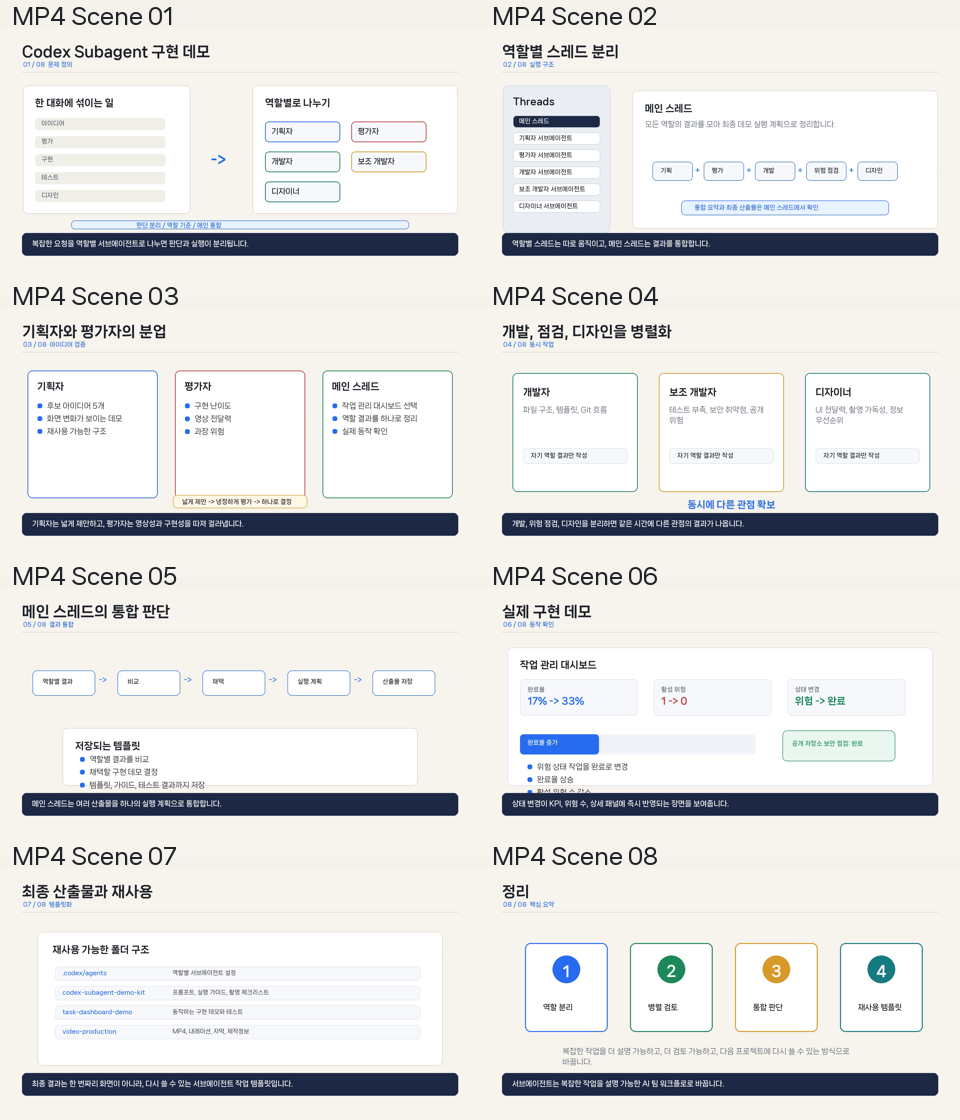
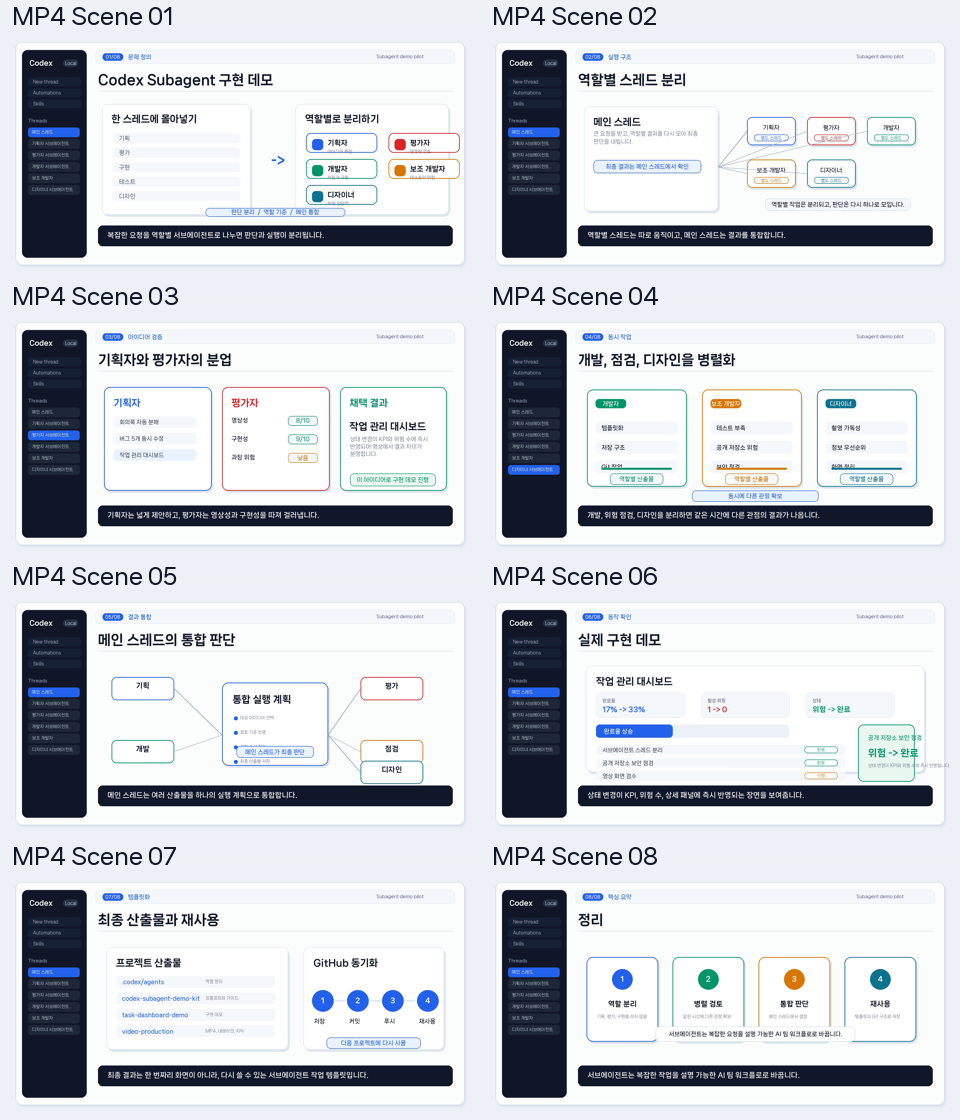
fix: redesign demo video screens

diff --git a/2026-07-08-video-production/2026-07-08-render-video.py b/2026-07-08-video-production/2026-07-08-render-video.py
@@ -459,12 +459,353 @@ VISUALS = {
 }
 
 
+THEME = {
+    "page": "#EEF2F7",
+    "window": "#FDFEFF",
+    "surface": "#FFFFFF",
+    "surface_alt": "#F5F8FC",
+    "sidebar": "#111827",
+    "sidebar_soft": "#1F2937",
+    "ink": "#101828",
+    "muted": "#667085",
+    "subtle": "#98A2B3",
+    "line": "#D9E2EC",
+    "blue": "#2563EB",
+    "blue_soft": "#EAF2FF",
+    "green": "#059669",
+    "green_soft": "#EAF8F1",
+    "amber": "#D97706",
+    "amber_soft": "#FFF7E6",
+    "red": "#DC2626",
+    "red_soft": "#FEF2F2",
+    "teal": "#0E7490",
+    "teal_soft": "#E6F7FA",
+    "purple": "#7C3AED",
+    "purple_soft": "#F3E8FF",
+    "caption": "#0F172A",
+}
+
+FONT_DISPLAY = font("extra_bold", 54)
+FONT_SCENE_TITLE = font("extra_bold", 38)
+FONT_PANEL_TITLE = font("extra_bold", 28)
+FONT_UI = font("bold", 23)
+FONT_UI_REGULAR = font("regular", 22)
+FONT_META = font("bold", 18)
+FONT_TINY = font("regular", 17)
+FONT_CAPTION_NEW = font("bold", 28)
+
+ROLE_COLORS = {
+    "기획자": THEME["blue"],
+    "평가자": THEME["red"],
+    "개발자": THEME["green"],
+    "보조 개발자": THEME["amber"],
+    "디자이너": THEME["teal"],
+}
+
+
+def draw_card(
+    draw: ImageDraw.ImageDraw,
+    box: tuple[int, int, int, int],
+    fill: str = THEME["surface"],
+    outline: str = THEME["line"],
+    width: int = 2,
+    radius: int = 20,
+    shadow: bool = True,
+) -> None:
+    if shadow:
+        sx1, sy1, sx2, sy2 = box
+        draw.rounded_rectangle((sx1 + 6, sy1 + 8, sx2 + 6, sy2 + 8), radius=radius, fill="#DDE5EF")
+    draw.rounded_rectangle(box, radius=radius, fill=fill, outline=outline, width=width)
+
+
+def draw_pill(
+    draw: ImageDraw.ImageDraw,
+    box: tuple[int, int, int, int],
+    text: str,
+    fill: str,
+    text_fill: str,
+    outline: str | None = None,
+    fnt: ImageFont.ImageFont = FONT_META,
+    radius: int = 18,
+) -> None:
+    draw.rounded_rectangle(box, radius=radius, fill=fill, outline=outline, width=2 if outline else 1)
+    tw, th = text_size(draw, text, fnt)
+    x1, y1, x2, y2 = box
+    draw.text((x1 + (x2 - x1 - tw) / 2, y1 + (y2 - y1 - th) / 2 - 1), text, font=fnt, fill=text_fill)
+
+
+def draw_centered(
+    draw: ImageDraw.ImageDraw,
+    box: tuple[int, int, int, int],
+    text: str,
+    fnt: ImageFont.ImageFont,
+    fill: str,
+) -> None:
+    tw, th = text_size(draw, text, fnt)
+    x1, y1, x2, y2 = box
+    draw.text((x1 + (x2 - x1 - tw) / 2, y1 + (y2 - y1 - th) / 2), text, font=fnt, fill=fill)
+
+
+def draw_small_label(draw: ImageDraw.ImageDraw, xy: tuple[int, int], text: str, color: str) -> None:
+    x, y = xy
+    draw.rounded_rectangle((x, y, x + 14, y + 14), radius=5, fill=color)
+    draw.text((x + 24, y - 5), text, font=FONT_TINY, fill=THEME["muted"])
+
+
+def draw_thread_item(draw: ImageDraw.ImageDraw, y: int, label: str, active: bool = False) -> None:
+    fill = THEME["blue"] if active else THEME["sidebar_soft"]
+    text_fill = "#FFFFFF" if active else "#CBD5E1"
+    draw.rounded_rectangle((112, y, 318, y + 38), radius=11, fill=fill)
+    draw.text((128, y + 8), label, font=FONT_TINY, fill=text_fill)
+
+
+def draw_demo_shell(draw: ImageDraw.ImageDraw, scene: Scene, index: int, active_thread: str = "메인 스레드") -> tuple[int, int, int, int]:
+    draw.rectangle((0, 0, WIDTH, HEIGHT), fill=THEME["page"])
+    draw_card(draw, (62, 56, 1858, 948), fill=THEME["window"], outline="#CAD5E2", radius=28, shadow=True)
+    draw.rounded_rectangle((88, 88, 346, 918), radius=22, fill=THEME["sidebar"])
+    draw.text((118, 124), "Codex", font=FONT_PANEL_TITLE, fill="#FFFFFF")
+    draw_pill(draw, (252, 126, 312, 154), "Local", "#263244", "#DDE7F3", fnt=FONT_TINY, radius=12)
+
+    for i, nav in enumerate(["New thread", "Automations", "Skills"]):
+        y = 198 + i * 44
+        draw.rounded_rectangle((112, y, 322, y + 34), radius=10, fill="#182235")
+        draw.text((132, y + 7), nav, font=FONT_TINY, fill="#B9C5D4")
+
+    draw.text((112, 360), "Threads", font=FONT_META, fill="#8EA0B8")
+    thread_labels = [
+        ("메인 스레드", active_thread == "메인 스레드"),
+        ("기획자 서브에이전트", active_thread == "기획자"),
+        ("평가자 서브에이전트", active_thread == "평가자"),
+        ("개발자 서브에이전트", active_thread == "개발자"),
+        ("보조 개발자", active_thread == "보조 개발자"),
+        ("디자이너 서브에이전트", active_thread == "디자이너"),
+    ]
+    for i, (label, active) in enumerate(thread_labels):
+        draw_thread_item(draw, 398 + i * 46, label, active)
+
+    draw.rounded_rectangle((382, 88, 1818, 142), radius=16, fill=THEME["surface_alt"], outline=THEME["line"])
+    draw_pill(draw, (410, 101, 492, 130), f"{index:02d}/08", THEME["blue"], "#FFFFFF", fnt=FONT_META, radius=13)
+    draw.text((512, 103), scene.label, font=FONT_UI, fill=THEME["blue"])
+    draw.text((1506, 103), "Subagent demo pilot", font=FONT_META, fill=THEME["muted"])
+
+    draw.text((392, 178), scene.title, font=FONT_DISPLAY, fill=THEME["ink"])
+    draw.line((392, 252, 1810, 252), fill=THEME["line"], width=2)
+
+    draw.rounded_rectangle((392, 790, 1810, 872), radius=18, fill=THEME["caption"])
+    draw_wrapped(draw, (430, 813), scene.caption, FONT_CAPTION_NEW, "#FFFFFF", 1338, line_gap=8)
+    return (392, 286, 1810, 754)
+
+
+def draw_role_badge(draw: ImageDraw.ImageDraw, box: tuple[int, int, int, int], role: str, subtitle: str) -> None:
+    color = ROLE_COLORS.get(role, THEME["blue"])
+    draw_card(draw, box, fill=THEME["surface"], outline=color, width=3, radius=20, shadow=False)
+    x1, y1, x2, _ = box
+    draw.rounded_rectangle((x1 + 24, y1 + 24, x1 + 68, y1 + 68), radius=14, fill=color)
+    draw.text((x1 + 86, y1 + 24), role, font=FONT_PANEL_TITLE, fill=THEME["ink"])
+    draw_wrapped(draw, (x1 + 86, y1 + 64), subtitle, FONT_TINY, THEME["muted"], x2 - x1 - 112, line_gap=5)
+
+
+def scene_problem(draw: ImageDraw.ImageDraw, scene: Scene, index: int) -> None:
+    x1, y1, x2, y2 = draw_demo_shell(draw, scene, index)
+    left = (x1 + 16, y1 + 18, x1 + 610, y2 - 8)
+    right = (x1 + 790, y1 + 18, x2 - 16, y2 - 8)
+    draw_card(draw, left, fill=THEME["surface"], outline=THEME["line"], radius=24)
+    draw_card(draw, right, fill=THEME["surface"], outline=THEME["line"], radius=24)
+    draw.text((left[0] + 38, left[1] + 38), "한 스레드에 몰아넣기", font=FONT_SCENE_TITLE, fill=THEME["ink"])
+    for i, item in enumerate(["기획", "평가", "구현", "테스트", "디자인"]):
+        y = left[1] + 116 + i * 58
+        draw.rounded_rectangle((left[0] + 42, y, left[2] - 42, y + 40), radius=12, fill=THEME["surface_alt"])
+        draw.text((left[0] + 68, y + 8), item, font=FONT_UI, fill=THEME["muted"])
+    draw.text((x1 + 692, y1 + 214), "->", font=FONT_DISPLAY, fill=THEME["blue"])
+    draw.text((right[0] + 38, right[1] + 38), "역할별로 분리하기", font=FONT_SCENE_TITLE, fill=THEME["ink"])
+    roles = [
+        ("기획자", "아이디어 확장"),
+        ("평가자", "냉정한 검토"),
+        ("개발자", "파일과 구현"),
+        ("보조 개발자", "테스트와 위험"),
+        ("디자이너", "화면 전달력"),
+    ]
+    for i, (role, subtitle) in enumerate(roles):
+        bx = right[0] + 42 + (i % 2) * 330
+        by = right[1] + 116 + (i // 2) * 104
+        draw_role_badge(draw, (bx, by, bx + 284, by + 78), role, subtitle)
+    draw_pill(draw, (x1 + 430, y2 - 34, x2 - 430, y2), "판단 분리  /  역할 기준  /  메인 통합", THEME["blue_soft"], THEME["blue"], outline=THEME["blue"], fnt=FONT_UI, radius=16)
+
+
+def scene_threads(draw: ImageDraw.ImageDraw, scene: Scene, index: int) -> None:
+    x1, y1, x2, y2 = draw_demo_shell(draw, scene, index, active_thread="메인 스레드")
+    draw_card(draw, (x1 + 24, y1 + 28, x1 + 560, y2 - 22), fill=THEME["surface"], outline=THEME["line"], radius=24)
+    draw.text((x1 + 62, y1 + 68), "메인 스레드", font=FONT_SCENE_TITLE, fill=THEME["ink"])
+    draw_wrapped(draw, (x1 + 62, y1 + 124), "큰 요청을 받고, 역할별 결과를 다시 모아 최종 판단을 내립니다.", FONT_UI_REGULAR, THEME["muted"], 430, line_gap=8)
+    draw_pill(draw, (x1 + 62, y1 + 242, x1 + 492, y1 + 294), "최종 결과는 메인 스레드에서 확인", THEME["blue_soft"], THEME["blue"], outline=THEME["blue"], fnt=FONT_UI, radius=16)
+
+    roles = ["기획자", "평가자", "개발자", "보조 개발자", "디자이너"]
+    for i, role in enumerate(roles):
+        bx = x1 + 676 + (i % 3) * 240
+        by = y1 + 70 + (i // 3) * 170
+        color = ROLE_COLORS[role]
+        draw_card(draw, (bx, by, bx + 194, by + 112), fill=THEME["surface"], outline=color, width=3, radius=20)
+        draw_centered(draw, (bx, by + 24, bx + 194, by + 58), role, FONT_UI, THEME["ink"])
+        draw_pill(draw, (bx + 28, by + 70, bx + 166, by + 96), "별도 스레드", "#F8FAFC", color, outline=color, fnt=FONT_TINY, radius=12)
+        draw.line((x1 + 560, y1 + 270, bx, by + 56), fill="#A7B5C8", width=3)
+    draw_pill(draw, (x1 + 748, y2 - 72, x2 - 88, y2 - 24), "역할별 작업은 분리되고, 판단은 다시 하나로 모입니다.", THEME["surface_alt"], THEME["ink"], outline=THEME["line"], fnt=FONT_UI, radius=16)
+
+
+def scene_planner_evaluator(draw: ImageDraw.ImageDraw, scene: Scene, index: int) -> None:
+    x1, y1, x2, y2 = draw_demo_shell(draw, scene, index, active_thread="평가자")
+    panel_w = 430
+    draw_card(draw, (x1 + 24, y1 + 30, x1 + 24 + panel_w, y2 - 24), fill=THEME["surface"], outline=THEME["blue"], width=3, radius=24)
+    draw_card(draw, (x1 + 496, y1 + 30, x1 + 496 + panel_w, y2 - 24), fill=THEME["surface"], outline=THEME["red"], width=3, radius=24)
+    draw_card(draw, (x1 + 968, y1 + 30, x2 - 24, y2 - 24), fill=THEME["surface"], outline=THEME["green"], width=3, radius=24)
+    draw.text((x1 + 62, y1 + 72), "기획자", font=FONT_SCENE_TITLE, fill=THEME["blue"])
+    draw.text((x1 + 534, y1 + 72), "평가자", font=FONT_SCENE_TITLE, fill=THEME["red"])
+    draw.text((x1 + 1006, y1 + 72), "채택 결과", font=FONT_SCENE_TITLE, fill=THEME["green"])
+    for i, item in enumerate(["회의록 자동 분해", "버그 5개 동시 수정", "작업 관리 대시보드"]):
+        y = y1 + 148 + i * 66
+        fill = THEME["blue_soft"] if i == 2 else THEME["surface_alt"]
+        draw.rounded_rectangle((x1 + 62, y, x1 + 392, y + 44), radius=13, fill=fill)
+        draw.text((x1 + 86, y + 10), item, font=FONT_UI_REGULAR, fill=THEME["ink"])
+    for i, (label, value, color) in enumerate([("영상성", "8/10", THEME["green"]), ("구현성", "9/10", THEME["green"]), ("과장 위험", "낮음", THEME["amber"])]):
+        y = y1 + 150 + i * 74
+        draw.text((x1 + 534, y), label, font=FONT_UI, fill=THEME["ink"])
+        draw_pill(draw, (x1 + 760, y - 4, x1 + 878, y + 34), value, THEME["surface_alt"], color, outline=color, fnt=FONT_UI, radius=14)
+    draw.text((x1 + 1006, y1 + 166), "작업 관리 대시보드", font=FONT_SCENE_TITLE, fill=THEME["ink"])
+    draw_wrapped(draw, (x1 + 1008, y1 + 226), "상태 변경이 KPI와 위험 수에 즉시 반영되어 영상에서 결과 차이가 분명합니다.", FONT_UI_REGULAR, THEME["muted"], 340, line_gap=8)
+    draw_pill(draw, (x1 + 1008, y2 - 92, x2 - 68, y2 - 42), "이 아이디어로 구현 데모 진행", THEME["green_soft"], THEME["green"], outline=THEME["green"], fnt=FONT_UI, radius=16)
+
+
+def scene_parallel(draw: ImageDraw.ImageDraw, scene: Scene, index: int) -> None:
+    x1, y1, x2, y2 = draw_demo_shell(draw, scene, index, active_thread="디자이너")
+    lanes = [
+        ("개발자", "템플릿화\n저장 구조\nGit 작업"),
+        ("보조 개발자", "테스트 부족\n공개 저장소 위험\n보안 점검"),
+        ("디자이너", "촬영 가독성\n정보 우선순위\n화면 정리"),
+    ]
+    for i, (role, body) in enumerate(lanes):
+        lx = x1 + 36 + i * 460
+        color = ROLE_COLORS[role]
+        draw_card(draw, (lx, y1 + 40, lx + 398, y2 - 40), fill=THEME["surface"], outline=color, width=3, radius=24)
+        draw_pill(draw, (lx + 34, y1 + 78, lx + 156, y1 + 114), role, color, "#FFFFFF", fnt=FONT_UI, radius=14)
+        for j, line in enumerate(body.splitlines()):
+            y = y1 + 168 + j * 78
+            draw.rounded_rectangle((lx + 34, y, lx + 362, y + 50), radius=14, fill=THEME["surface_alt"])
+            draw.text((lx + 58, y + 13), line, font=FONT_UI, fill=THEME["ink"])
+        draw.line((lx + 58, y2 - 112, lx + 338, y2 - 112), fill=color, width=8)
+        draw_pill(draw, (lx + 92, y2 - 92, lx + 304, y2 - 48), "역할별 산출물", "#F8FAFC", color, outline=color, fnt=FONT_UI, radius=15)
+    draw_pill(draw, (x1 + 456, y2 - 24, x2 - 456, y2 + 20), "동시에 다른 관점 확보", THEME["blue_soft"], THEME["blue"], outline=THEME["blue"], fnt=FONT_UI, radius=16)
+
+
+def scene_integration(draw: ImageDraw.ImageDraw, scene: Scene, index: int) -> None:
+    x1, y1, x2, y2 = draw_demo_shell(draw, scene, index, active_thread="메인 스레드")
+    center = (x1 + 496, y1 + 92, x1 + 920, y2 - 44)
+    draw_card(draw, center, fill=THEME["surface"], outline=THEME["blue"], width=3, radius=26)
+    draw.text((center[0] + 42, center[1] + 46), "통합 실행 계획", font=FONT_SCENE_TITLE, fill=THEME["ink"])
+    for i, line in enumerate(["데모 아이디어 선택", "검토 기준 반영", "구현 순서 정리", "최종 산출물 저장"]):
+        y = center[1] + 128 + i * 58
+        draw_small_label(draw, (center[0] + 48, y + 8), line, THEME["blue"])
+    sources = [
+        ("기획", x1 + 54, y1 + 70, THEME["blue"]),
+        ("평가", x1 + 1050, y1 + 70, THEME["red"]),
+        ("개발", x1 + 54, y1 + 322, THEME["green"]),
+        ("점검", x1 + 1050, y1 + 322, THEME["amber"]),
+        ("디자인", x1 + 1050, y1 + 405, THEME["teal"]),
+    ]
+    for label, sx, sy, color in sources:
+        draw_card(draw, (sx, sy, sx + 250, sy + 92), fill=THEME["surface"], outline=color, width=3, radius=20, shadow=False)
+        draw_centered(draw, (sx, sy + 18, sx + 250, sy + 50), label, FONT_PANEL_TITLE, THEME["ink"])
+        draw.line((sx + 250 if sx < center[0] else sx, sy + 46, center[0] if sx < center[0] else center[2], center[1] + 210), fill="#A9B7CB", width=3)
+    draw_pill(draw, (center[0] + 58, center[3] - 78, center[2] - 58, center[3] - 32), "메인 스레드가 최종 판단", THEME["blue_soft"], THEME["blue"], outline=THEME["blue"], fnt=FONT_UI, radius=15)
+
+
+def scene_dashboard(draw: ImageDraw.ImageDraw, scene: Scene, index: int) -> None:
+    x1, y1, x2, y2 = draw_demo_shell(draw, scene, index)
+    draw_card(draw, (x1 + 32, y1 + 24, x2 - 32, y2 - 18), fill=THEME["surface"], outline=THEME["line"], radius=26)
+    draw.text((x1 + 72, y1 + 66), "작업 관리 대시보드", font=FONT_SCENE_TITLE, fill=THEME["ink"])
+    kpis = [("완료율", "17% -> 33%", THEME["blue"]), ("활성 위험", "1 -> 0", THEME["red"]), ("상태", "위험 -> 완료", THEME["green"])]
+    for i, (label, value, color) in enumerate(kpis):
+        bx = x1 + 72 + i * 420
+        draw.rounded_rectangle((bx, y1 + 132, bx + 354, y1 + 232), radius=18, fill=THEME["surface_alt"], outline=THEME["line"])
+        draw.text((bx + 26, y1 + 154), label, font=FONT_META, fill=THEME["muted"])
+        draw.text((bx + 26, y1 + 184), value, font=FONT_PANEL_TITLE, fill=color)
+    draw.rounded_rectangle((x1 + 72, y1 + 260, x1 + 844, y1 + 312), radius=14, fill="#EDF2F8")
+    draw.rounded_rectangle((x1 + 72, y1 + 260, x1 + 378, y1 + 312), radius=14, fill=THEME["blue"])
+    draw.text((x1 + 104, y1 + 274), "완료율 상승", font=FONT_UI, fill="#FFFFFF")
+    rows = [("서브에이전트 스레드 분리", "완료"), ("공개 저장소 보안 점검", "완료"), ("영상 화면 검수", "진행")]
+    for i, (task, status) in enumerate(rows):
+        y = y1 + 342 + i * 52
+        draw.rounded_rectangle((x1 + 72, y, x1 + 1068, y + 38), radius=12, fill=THEME["surface_alt"])
+        draw.text((x1 + 98, y + 8), task, font=FONT_UI_REGULAR, fill=THEME["ink"])
+        color = THEME["green"] if status == "완료" else THEME["amber"]
+        draw_pill(draw, (x1 + 906, y + 6, x1 + 1038, y + 32), status, "#FFFFFF", color, outline=color, fnt=FONT_TINY, radius=12)
+    draw_card(draw, (x1 + 1120, y1 + 260, x2 - 72, y1 + 488), fill=THEME["green_soft"], outline=THEME["green"], width=3, radius=22, shadow=False)
+    draw.text((x1 + 1160, y1 + 300), "공개 저장소 보안 점검", font=FONT_UI, fill=THEME["green"])
+    draw.text((x1 + 1160, y1 + 352), "위험 -> 완료", font=FONT_SCENE_TITLE, fill=THEME["green"])
+    draw_wrapped(draw, (x1 + 1160, y1 + 414), "상태 변경이 KPI와 위험 수에 즉시 반영됩니다.", FONT_TINY, THEME["muted"], 340, line_gap=5)
+
+
+def scene_outputs(draw: ImageDraw.ImageDraw, scene: Scene, index: int) -> None:
+    x1, y1, x2, y2 = draw_demo_shell(draw, scene, index)
+    draw_card(draw, (x1 + 34, y1 + 30, x1 + 760, y2 - 28), fill=THEME["surface"], outline=THEME["line"], radius=24)
+    draw.text((x1 + 72, y1 + 72), "프로젝트 산출물", font=FONT_SCENE_TITLE, fill=THEME["ink"])
+    files = [
+        (".codex/agents", "역할 정의"),
+        ("codex-subagent-demo-kit", "프롬프트와 가이드"),
+        ("task-dashboard-demo", "구현 데모"),
+        ("video-production", "MP4, 내레이션, 자막"),
+    ]
+    for i, (name, desc) in enumerate(files):
+        y = y1 + 146 + i * 66
+        draw.rounded_rectangle((x1 + 72, y, x1 + 708, y + 46), radius=12, fill=THEME["surface_alt"])
+        draw.text((x1 + 96, y + 11), name, font=FONT_UI, fill=THEME["blue"])
+        draw.text((x1 + 430, y + 12), desc, font=FONT_TINY, fill=THEME["muted"])
+    draw_card(draw, (x1 + 822, y1 + 30, x2 - 34, y2 - 28), fill=THEME["surface"], outline=THEME["line"], radius=24)
+    draw.text((x1 + 862, y1 + 72), "GitHub 동기화", font=FONT_SCENE_TITLE, fill=THEME["ink"])
+    steps = ["저장", "커밋", "푸시", "재사용"]
+    for i, step in enumerate(steps):
+        cx = x1 + 856 + i * 140
+        cy = y1 + 202
+        draw.ellipse((cx, cy, cx + 86, cy + 86), fill=THEME["blue"], outline=THEME["blue"])
+        draw_centered(draw, (cx, cy + 22, cx + 86, cy + 54), str(i + 1), FONT_PANEL_TITLE, "#FFFFFF")
+        draw.text((cx + 8, cy + 112), step, font=FONT_UI, fill=THEME["ink"])
+        if i < 3:
+            draw.line((cx + 92, cy + 43, cx + 132, cy + 43), fill=THEME["line"], width=5)
+    draw_pill(draw, (x1 + 914, y2 - 76, x2 - 128, y2 - 32), "다음 프로젝트에 다시 사용", THEME["blue_soft"], THEME["blue"], outline=THEME["blue"], fnt=FONT_UI, radius=16)
+
+
+def scene_summary(draw: ImageDraw.ImageDraw, scene: Scene, index: int) -> None:
+    x1, y1, x2, y2 = draw_demo_shell(draw, scene, index)
+    pillars = [
+        ("역할 분리", "기획, 평가, 구현을 섞지 않음", THEME["blue"]),
+        ("병렬 검토", "같은 시간에 다른 관점 확보", THEME["green"]),
+        ("통합 판단", "메인 스레드에서 결정", THEME["amber"]),
+        ("재사용", "템플릿과 Git 구조로 저장", THEME["teal"]),
+    ]
+    for i, (title, desc, color) in enumerate(pillars):
+        bx = x1 + 34 + i * 344
+        draw_card(draw, (bx, y1 + 70, bx + 286, y1 + 408), fill=THEME["surface"], outline=color, width=3, radius=26)
+        draw.ellipse((bx + 102, y1 + 118, bx + 184, y1 + 200), fill=color)
+        draw_centered(draw, (bx + 102, y1 + 140, bx + 184, y1 + 168), str(i + 1), FONT_PANEL_TITLE, "#FFFFFF")
+        draw_centered(draw, (bx + 30, y1 + 240, bx + 256, y1 + 272), title, FONT_PANEL_TITLE, THEME["ink"])
+        draw_wrapped(draw, (bx + 42, y1 + 298), desc, FONT_TINY, THEME["muted"], 210, line_gap=5)
+    draw_pill(draw, (x1 + 310, y2 - 120, x2 - 310, y2 - 60), "서브에이전트는 복잡한 요청을 설명 가능한 AI 팀 워크플로로 바꿉니다.", THEME["surface"], THEME["ink"], outline=THEME["line"], fnt=FONT_UI, radius=18)
+
+
+VISUALS = {
+    "problem": scene_problem,
+    "threads": scene_threads,
+    "planner_evaluator": scene_planner_evaluator,
+    "parallel": scene_parallel,
+    "integration": scene_integration,
+    "dashboard": scene_dashboard,
+    "outputs": scene_outputs,
+    "summary": scene_summary,
+}
+
+
 def render_slide(scene: Scene, index: int) -> Path:
-    image = Image.new("RGB", (WIDTH, HEIGHT), COLORS["bg"])
+    image = Image.new("RGB", (WIDTH, HEIGHT), THEME["page"])
     draw = ImageDraw.Draw(image)
-    draw_header(draw, scene, index)
-    VISUALS[scene.visual](draw, scene)
-    draw_caption(draw, scene.caption)
+    VISUALS[scene.visual](draw, scene, index)
     output = ASSET_DIR / f"2026-07-08-scene-{index:02d}.png"
     image.save(output, "PNG")
     return output
@@ -607,6 +948,7 @@ def write_manifest(ffmpeg: str, durations: list[float]) -> None:
             "bold": "NanumSquareNeo-cBd.ttf",
             "extra_bold": "NanumSquareNeo-dEb.ttf",
         },
+        "visual_design": "product-demo-app-shell-v2",
         "scene_count": len(SCENES),
         "scene_durations_seconds": [round(value, 2) for value in durations],
         "video_duration_seconds": round(video_duration, 2),